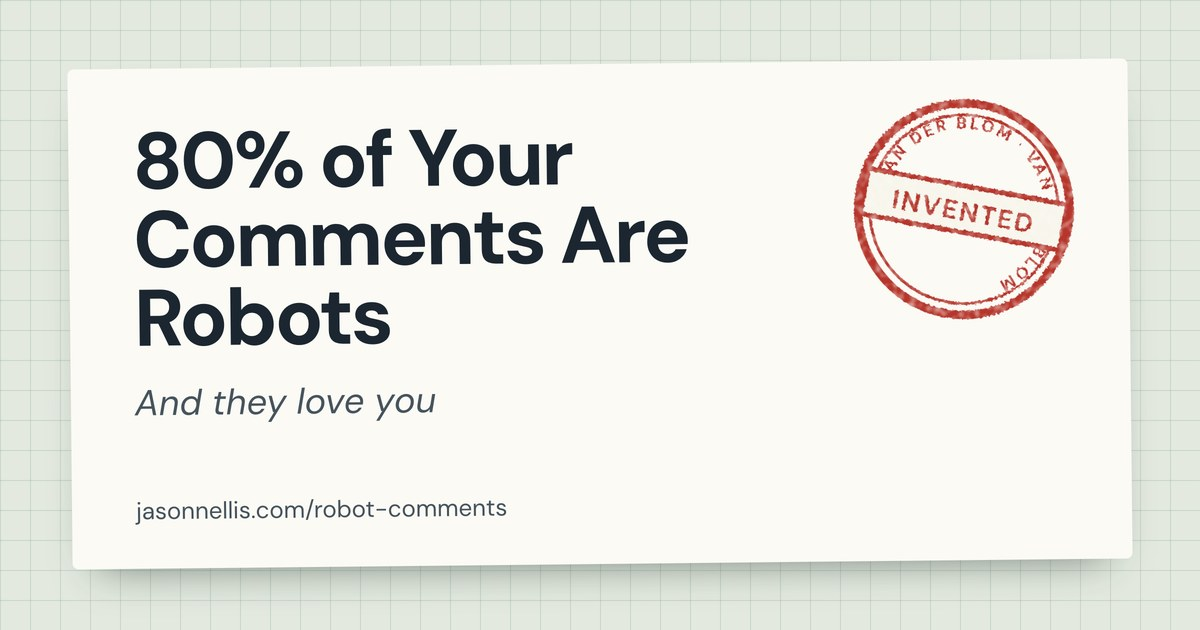
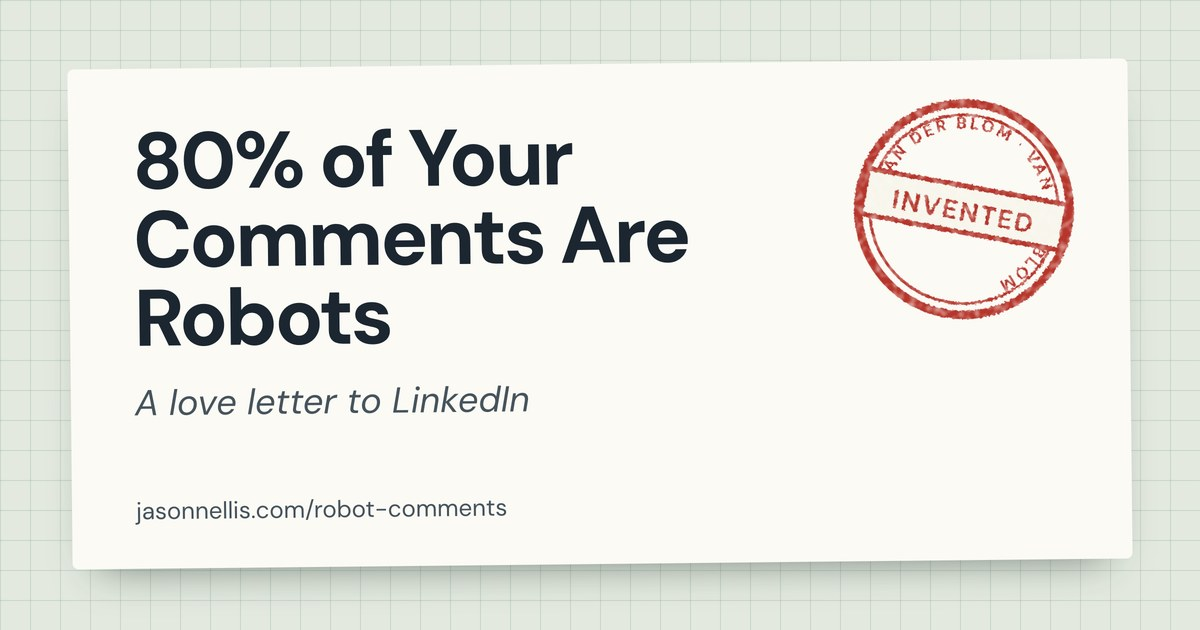
Robot Comments: tagline 'A love letter to LinkedIn', hours framed as difficulty, author + privacy footer

Changed region(s): [[0.1233, 0.6032, 0.4317, 0.6635]]

diff --git a/robot-comments-ui.js b/robot-comments-ui.js
@@ -172,10 +172,12 @@
   const heroHTML = () => `<section class="hero"><span class="slot" aria-hidden="true"></span>
     <h1 tabindex="-1" data-focus>${esc(C.title)}</h1><p class="tag">${esc(C.tagline)}</p>${C.intro.map(p => `<p>${esc(p)}</p>`).join('')}</section>`;
 
+  const colophonHTML = () => `<footer class="colophon">${esc(C.colophon.by)} <a href="/">${esc(C.colophon.author)}</a> · <a href="/privacy">${esc(C.colophon.privacy)}</a></footer>`;
+
   function renderResume(game) {
     const A = D.ARCHETYPES[game.setup.archetype];
     show(heroHTML() + `<div class="resume-card"><p>${esc(fill(C.resume.line, { week: game.week, archetype: A.name, budget: C.setup.budgets[game.setup.budget] }))}</p>
-      <div class="go"><button class="btn" id="resume">${esc(C.resume.resume)}</button><button class="link" id="restart">${esc(C.resume.restart)}</button></div></div>`);
+      <div class="go"><button class="btn" id="resume">${esc(C.resume.resume)}</button><button class="link" id="restart">${esc(C.resume.restart)}</button></div></div>${colophonHTML()}`);
     app.querySelector('#resume').onclick = () => { S = game; track('rc_resume', { week: String(game.week) }); next(); };
     app.querySelector('#restart').onclick = () => { store.del('rc_run'); store.del('rc_last'); renderSetup(); };
   }
@@ -189,10 +191,10 @@
         ${lastGame && lastGame.done ? `<button class="link" id="last">${esc(C.resume.lastResult)}</button>` : ''}</p>
       <section class="pick"><h2>${esc(C.setup.archetypeHeading)}</h2><div class="tiles">
         ${Object.keys(A).map(id => `<button class="tile" data-a="${id}" aria-pressed="${setup.archetype === id}"><b>${esc(A[id].name)}</b><span class="num">${esc(fill(C.setup.connections, { n: A[id].connections.toLocaleString('en-US') }))}</span><span>${esc(A[id].headline)}</span></button>`).join('')}
-      </div><h2>${esc(C.setup.budgetHeading)}</h2><div class="tiles budget">
+      </div><h2>${esc(C.setup.budgetHeading)}</h2><p class="hint">${esc(C.setup.budgetHint)}</p><div class="tiles budget">
         ${E.CONFIG.budgets.map(b => `<button class="tile" data-b="${b}" aria-pressed="${setup.budget === b}"><b class="num">${esc(C.setup.budgets[b])}</b></button>`).join('')}
       </div></section>
-      <div class="go" style="margin-top:20px"><button class="btn" id="start">${esc(C.setup.start)}</button></div>`);
+      <div class="go" style="margin-top:20px"><button class="btn" id="start">${esc(C.setup.start)}</button></div>${colophonHTML()}`);
     app.querySelectorAll('[data-a]').forEach(b => { b.onclick = () => { setup.archetype = b.dataset.a; renderSetup(); app.querySelector(`[data-a="${b.dataset.a}"]`).focus(); }; });
     app.querySelectorAll('[data-b]').forEach(b => { b.onclick = () => { setup.budget = +b.dataset.b; renderSetup(); app.querySelector(`[data-b="${b.dataset.b}"]`).focus(); }; });
     app.querySelector('#guide').onclick = cardGuide;
@@ -358,7 +360,7 @@
           if (!ids.length) return '';
           return `<h3 class="srct">${esc(L.stamps[tier])}</h3><ol class="sources">${ids.map(id => { const s = D.SOURCES[id]; return `<li>${esc(s.cite)}${s.url ? ` <a href="${esc(s.url)}" target="_blank" rel="noopener">${esc(C.week.sourceLink)}</a>` : ''}</li>`; }).join('')}</ol>`;
         }).join('')}
-      </section>`);
+      </section>${colophonHTML()}`);
     app.querySelector('#tstamp').onclick = () => sourceSheet(titleLever, C.titleStamp.why);
     app.querySelector('#share').onclick = () => share(F);
     app.querySelector('#again').onclick = () => { track('rc_replay'); store.del('rc_last'); store.del('rc_run'); S = null; renderSetup(); };

diff --git a/robot-comments.html b/robot-comments.html
@@ -14,13 +14,13 @@
 <meta property="og:site_name" content="Jason Nellis">
 <meta property="og:url" content="https://jasonnellis.com/robot-comments">
 <meta property="og:title" content="80% of Your Comments Are Robots">
-<meta property="og:description" content="And they love you. Twelve weeks of LinkedIn posting decisions, every mechanic stamped Proven, Measured, Disputed or Invented.">
+<meta property="og:description" content="A love letter to LinkedIn. Twelve weeks of LinkedIn posting decisions, every mechanic stamped Proven, Measured, Disputed or Invented.">
 <meta property="og:image" content="https://jasonnellis.com/og-robot-comments.jpg">
 <meta property="og:image:width" content="1200">
 <meta property="og:image:height" content="630">
 <meta name="twitter:card" content="summary_large_image">
 <meta name="twitter:title" content="80% of Your Comments Are Robots">
-<meta name="twitter:description" content="And they love you. Twelve weeks of LinkedIn posting decisions, every mechanic stamped Proven, Measured, Disputed or Invented.">
+<meta name="twitter:description" content="A love letter to LinkedIn. Twelve weeks of LinkedIn posting decisions, every mechanic stamped Proven, Measured, Disputed or Invented.">
 <meta name="twitter:image" content="https://jasonnellis.com/og-robot-comments.jpg">
 <!-- nav.js supplies Plausible and SITE_CONFIG (Kit endpoint). No header or footer renders: this page has no site-header/site-footer tags. -->
 <script src="/nav.js"></script>
@@ -147,6 +147,9 @@ button{font:inherit;color:inherit}
 .hero .slot{position:absolute;right:0;top:32px;width:58px;height:58px;border-radius:50%;border:1.5px dashed var(--rc-ink-3);opacity:.6}
 .introlinks{display:flex;flex-wrap:wrap;gap:0 16px;margin:0 0 4px}
 .introlinks .link{font-size:13.5px}
+.pick .hint{font-size:13px;line-height:1.45;color:var(--rc-ink-2);margin:-4px 0 8px}
+.colophon{margin:28px 0 8px;padding-top:12px;border-top:1px solid rgba(27,38,48,.12);font-size:12.5px;color:var(--rc-ink-3)}
+.colophon a{color:inherit;text-underline-offset:2px}
 .pick h2{font-size:14px;font-weight:500;margin:14px 0 8px}
 .tiles{display:grid;grid-template-columns:1fr 1fr;gap:8px}
 .tile{border:1.5px solid var(--rc-ink);border-radius:3px;background:rgba(251,250,245,.7);text-align:left;padding:9px 10px;cursor:pointer}

diff --git a/robot-comments-copy.js b/robot-comments-copy.js
@@ -17,7 +17,7 @@
 
   const COPY = {
     title: '80% of Your Comments Are Robots',
-    tagline: 'And they love you',
+    tagline: 'A love letter to LinkedIn',
     intro: [
       'You have twelve weeks, a headline, and a feed that reads both.',
       'Most of what you have been told about the feed is wrong. Some of what you will be offered here is bait.',
@@ -34,9 +34,15 @@
       archetypeHeading: 'Who are you',
       budgetHeading: 'Hours a week for LinkedIn',
       budgets: { 1: '1 hour', 3: '3 hours', 6: '6 hours' },
-      budgetHint: 'Founders pick 1 or 3.',
+      budgetHint: 'Hours are the difficulty setting. More hours make the game easier, and less like real life. Most founders get 1 or 3.',
       start: 'Start week 1',
       connections: '{n} connections',
+    },
+
+    colophon: {
+      by: 'A game by',
+      author: 'Jason Nellis',
+      privacy: 'Privacy policy',
     },
 
     resume: {

diff --git a/docs/superpowers/specs/2026-09-28-robot-comments-design.md b/docs/superpowers/specs/2026-09-28-robot-comments-design.md
@@ -5,7 +5,7 @@ This spec supersedes the brief wherever they differ; every difference is listed 
 
 ## 1. What it is
 
-**Name:** 80% of Your Comments Are Robots. **Tagline:** And they love you.
+**Name:** 80% of Your Comments Are Robots. **Tagline:** A love letter to LinkedIn.
 **URL / file prefix:** `/robot-comments`, `robot-comments-*`; Plausible events and Kit fields use
 the `rc_` prefix, CSS tokens `--rc-`. (Working title in the brief was "Twelve Weeks".)
 
@@ -427,7 +427,7 @@ anywhere, reduced motion, Plausible events firing, share fallback, email post sh
 | "March 2026 Authenticity Update" | event Proven, label folklore | Jurka post is real |
 | Jason's multipliers 1.25/0.8/1.3/1.5/1.2 | 1.10/0.90/1.2/2.0/1.5 | Re-derived from the CSV |
 | contrib_p = dwell_p × … | format term from measured eng ÷ reach | Avoid double-counting |
-| Title "Twelve Weeks" | "80% of Your Comments Are Robots" / "And they love you"; `/robot-comments` | Jason, 2026-09-28; title self-stamped (§1) |
+| Title "Twelve Weeks" | "80% of Your Comments Are Robots" / "A love letter to LinkedIn" (was "And they love you" until 2026-09-29); `/robot-comments` | Jason, 2026-09-28/29; title self-stamped (§1) |
 | Standalone page carries Plausible inline | Loads nav.js (no header rendered) | Single source for Plausible and the Kit endpoint |
 | "No saving progress" | Same-device resume via replayed choice list | Jason, 2026-09-28 |
 | Distribution loop on absolute probabilities | normalised to base dwell/contribution; scroll term dropped | Absolute form shrank reach for 39 of 47 cards and made the contribution term inert |

diff --git a/tool-index/robot-comments.md b/tool-index/robot-comments.md
@@ -1,7 +1,7 @@
 ---
 title: "80% of Your Comments Are Robots"
 kind: "Game"
-tagline: "And they love you."
+tagline: "A love letter to LinkedIn."
 url: "/robot-comments"
 cta: "Play twelve weeks"
 time: "7 min"
